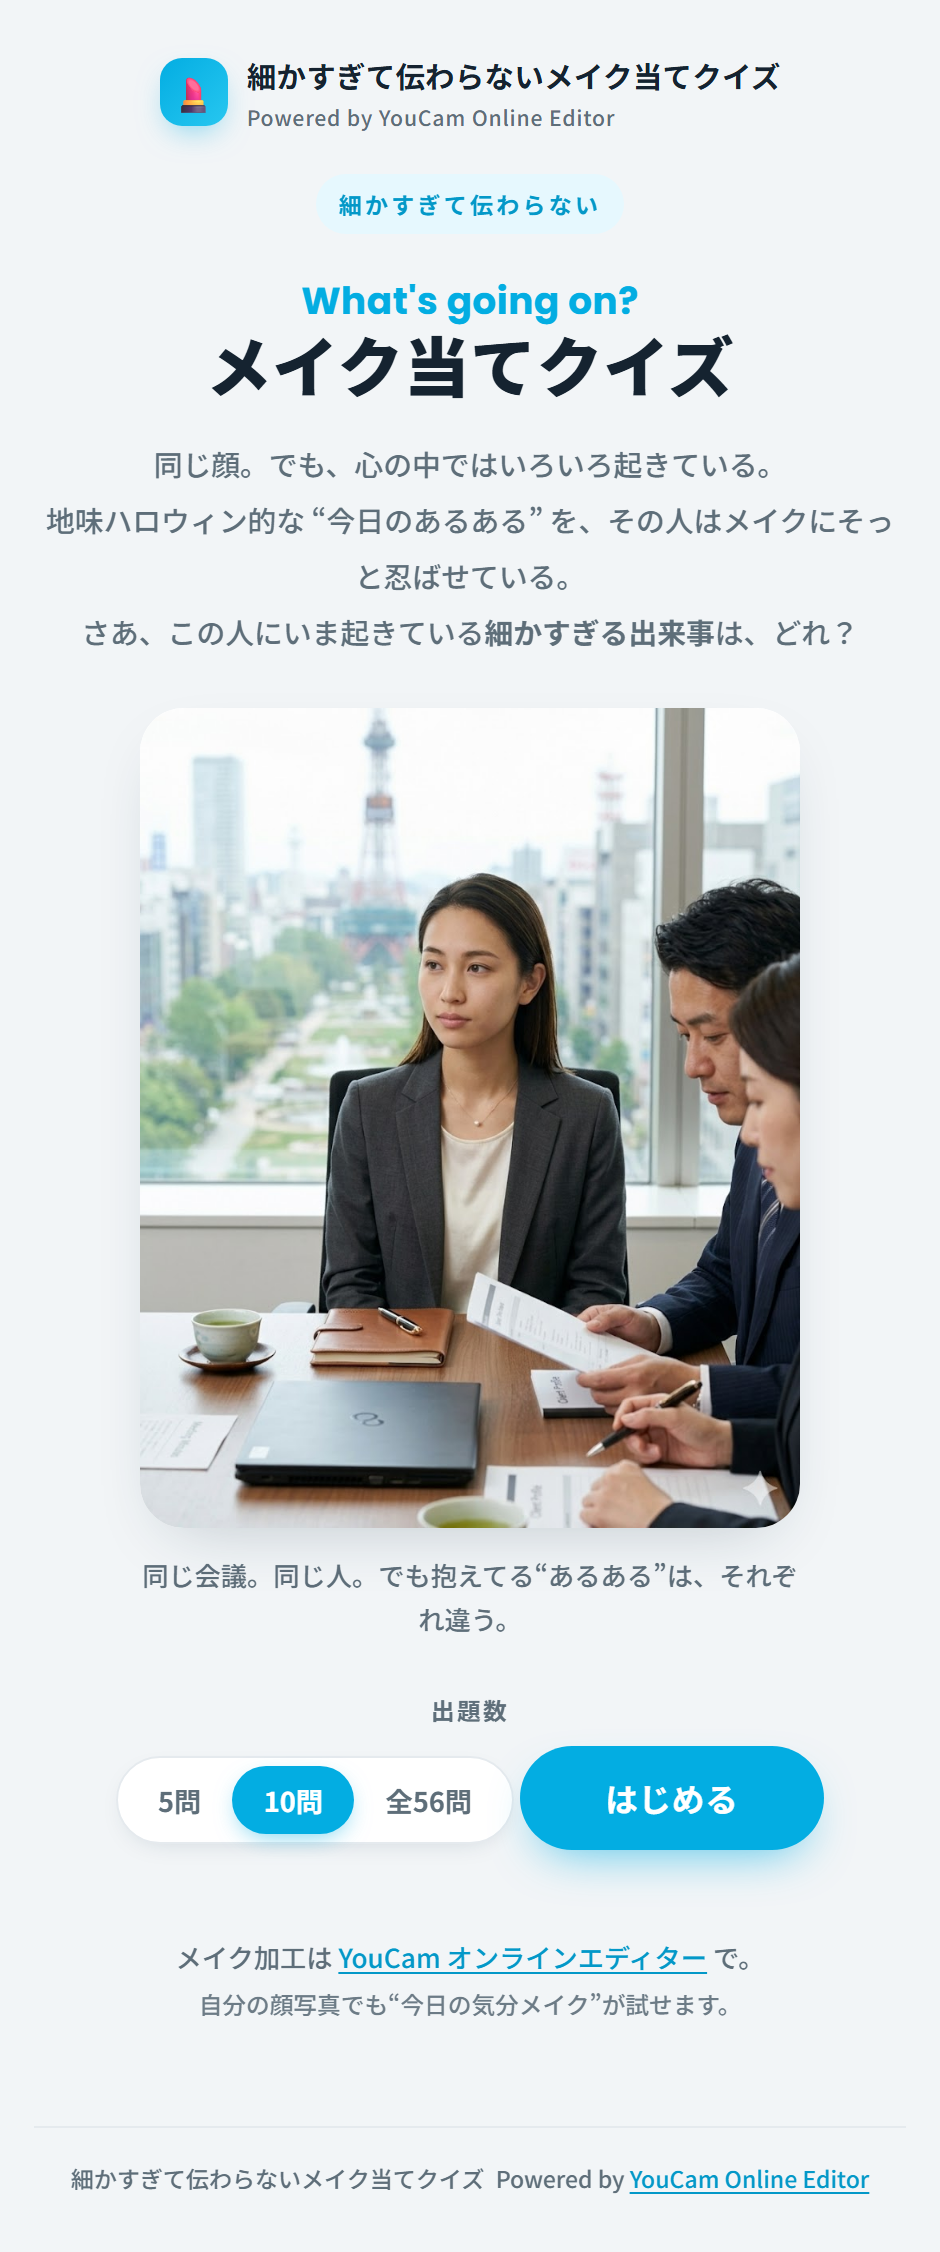
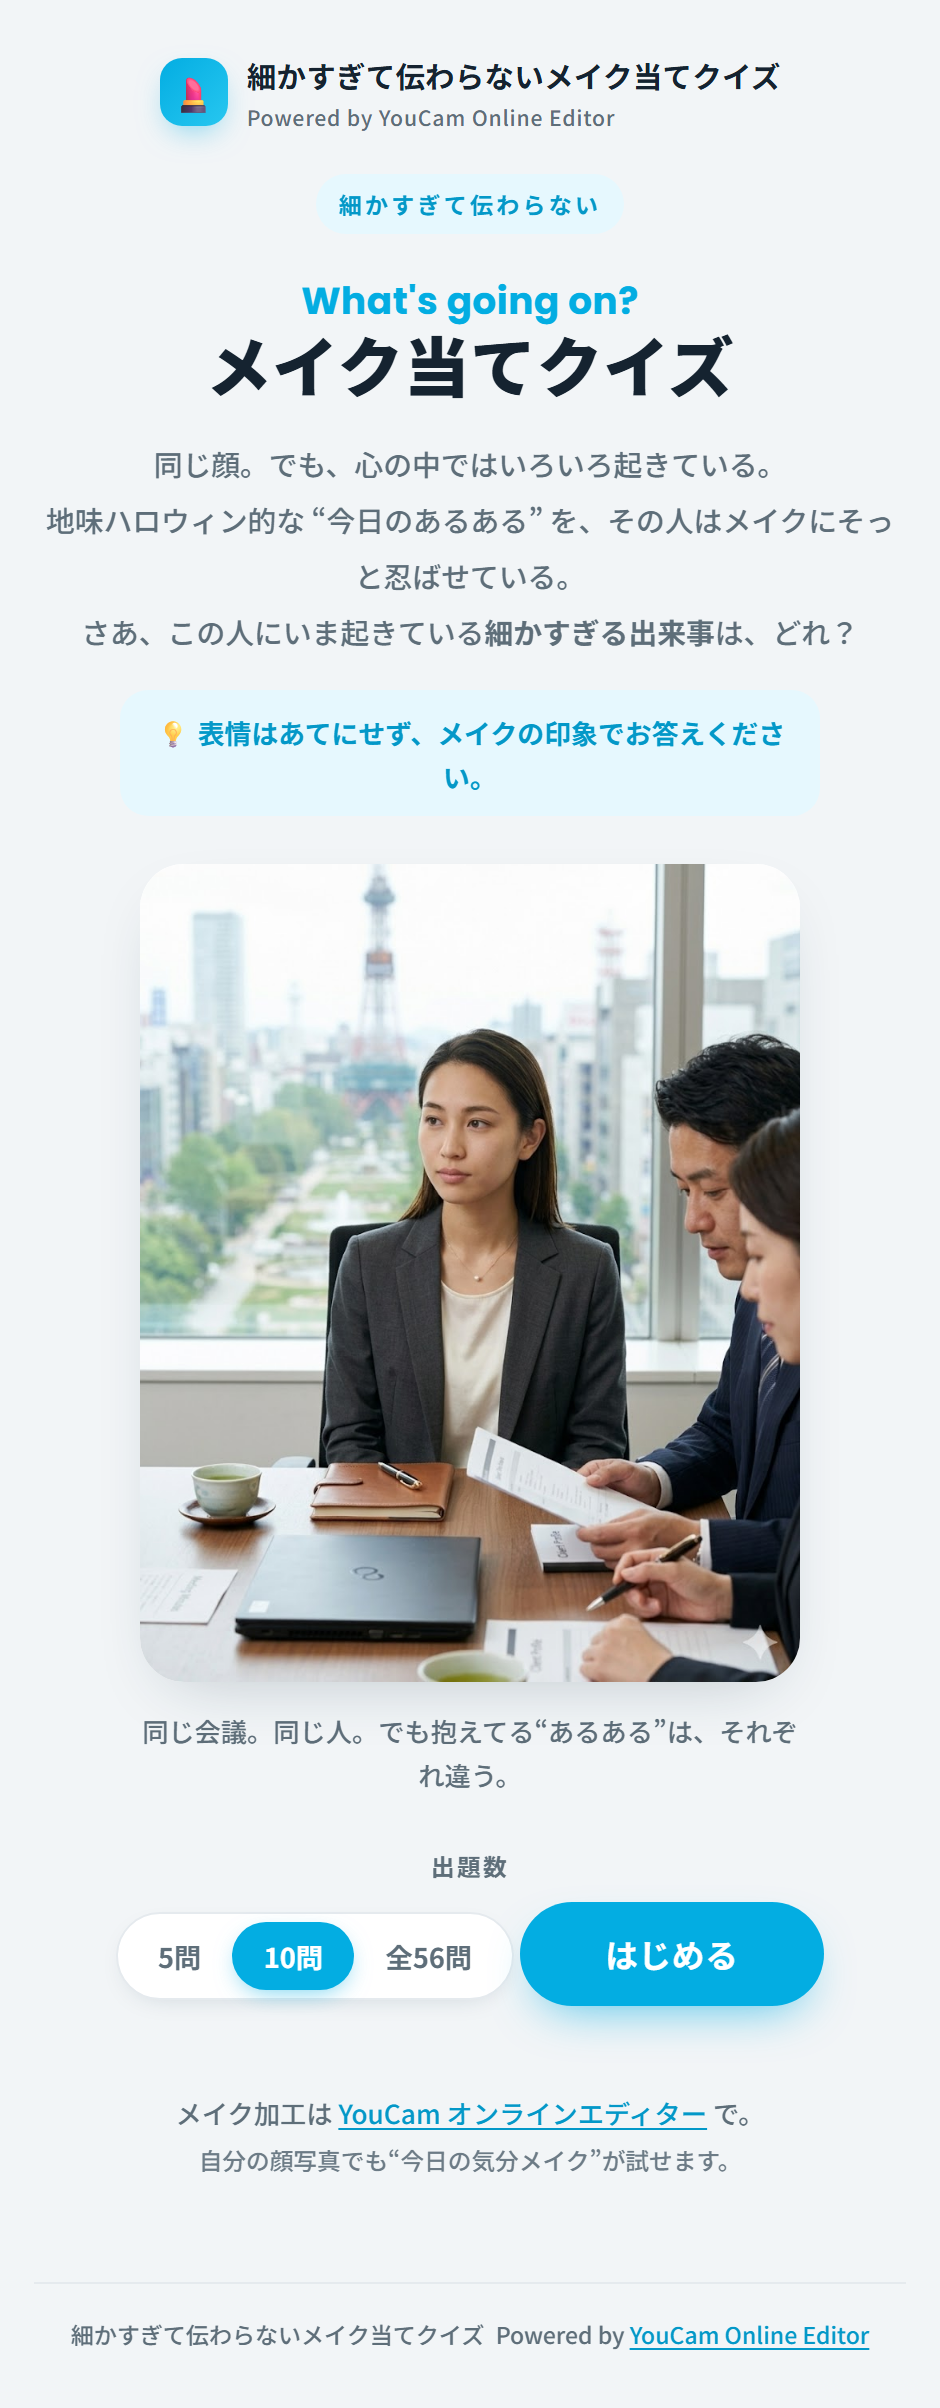
fix: 画像は元の縦横比で全体表示（クレジット維持）＋「メイクの印象で」ルール追加

diff --git a/styles.css b/styles.css
@@ -70,6 +70,11 @@ b{font-weight:700}
   margin:1.2em auto 0;max-width:30em;color:var(--ink-soft);
   font-size:clamp(.9rem,2.5vw,1rem);line-height:1.95;font-weight:500;
 }
+.rule{
+  margin:1.1em auto 0;max-width:26em;font-size:.84rem;font-weight:700;
+  color:var(--blue-dark);background:var(--blue-soft);border-radius:14px;
+  padding:.7em 1.1em;line-height:1.65;
+}
 
 /* ---- hero ---- */
 .hero{margin:clamp(20px,5vw,30px) auto;text-align:center;max-width:330px}
@@ -117,15 +122,16 @@ b{font-weight:700}
 .qbar span{position:absolute;inset:0 100% 0 0;background:linear-gradient(90deg,#03ADE2,#27C7F0);transition:right .4s ease-out;border-radius:var(--r-pill)}
 .qprompt{margin-top:.8em;font-size:clamp(1.05rem,3.4vw,1.3rem);font-weight:900;text-align:center}
 .qprompt b{color:var(--blue-dark)}
+.qnote{margin-top:.35em;text-align:center;font-size:.76rem;color:var(--ink-soft);font-weight:500}
 
 .face{margin:0 auto clamp(14px,3vw,20px);max-width:300px}
 .face-frame{
   position:relative;border-radius:var(--r-card);overflow:hidden;
-  background:#eef1f3;box-shadow:var(--shadow);aspect-ratio:3/4;
+  background:#eef1f3;box-shadow:var(--shadow);
 }
 .face-frame::after{display:none}
-/* 全画像を縦3:4に統一。全面フィット（はみ出し・レターボックスなし） */
-.face-frame img{display:block;width:100%;height:100%;object-fit:cover;background:#eef1f3}
+/* 画像は元の縦横比のまま全体表示（クレジットも切らない・はみ出し/レターボックスなし） */
+.face-frame img{display:block;width:100%;height:auto;background:#eef1f3}
 .face-credit{margin-top:.6em;text-align:center;font-size:.72rem;color:var(--ink-soft);font-weight:500}
 .face-credit a{font-weight:700}
 .face-badge{

diff --git a/index.html b/index.html
@@ -37,6 +37,7 @@
         地味ハロウィン的な “今日のあるある” を、その人はメイクにそっと忍ばせている。<br />
         さあ、この人にいま起きている<b>細かすぎる出来事</b>は、どれ？
       </p>
+      <p class="rule">💡 表情はあてにせず、<b>メイクの印象</b>でお答えください。</p>
     </header>
 
     <figure class="hero">
@@ -69,6 +70,7 @@
         <span class="qscore">正解 <b id="q-score">0</b></span>
       </div>
       <p class="qprompt"><b id="face-situation">会議中</b>のこの人、いま<b>どの状況</b>？</p>
+      <p class="qnote">※ 表情ではなく、メイクの印象で</p>
     </div>
 
     <figure class="face">
